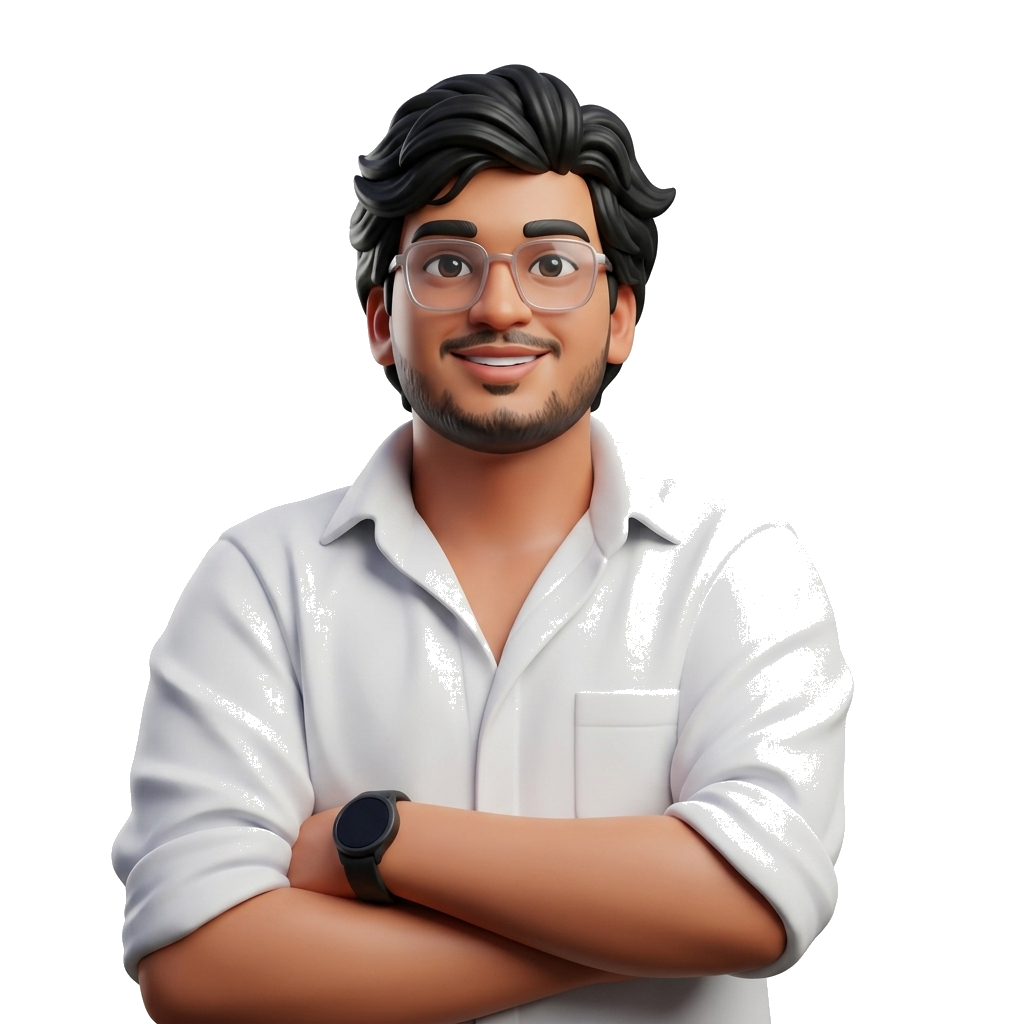
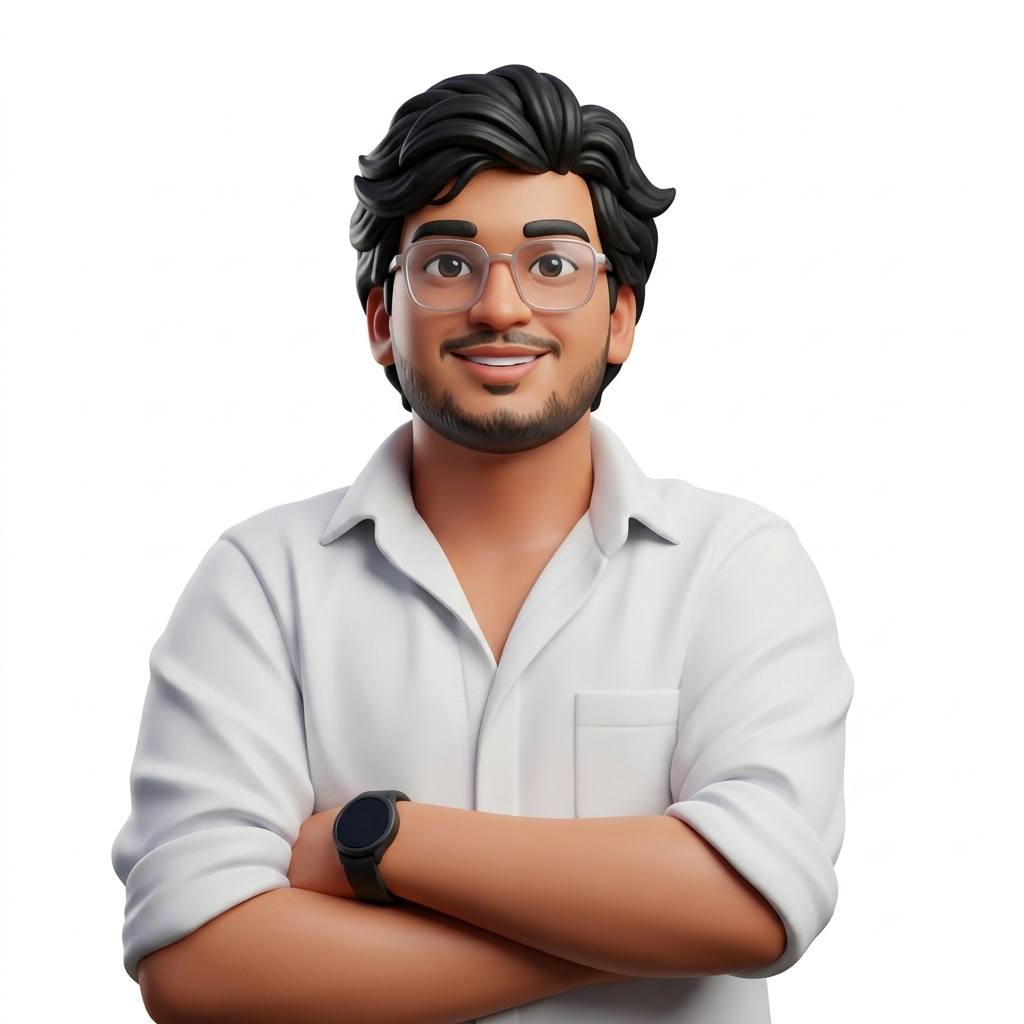
fix: restore original bhaumik.png with white background and remove blend mode hack

diff --git a/src/components/HeroSection.jsx b/src/components/HeroSection.jsx
@@ -193,7 +193,7 @@ const HeroSection = () => {
                 width: 'auto',
                 objectFit: 'cover',
                 objectPosition: 'top center',
-                filter: 'brightness(1.02) contrast(1.05)',
+                filter: 'brightness(1.08) contrast(1.05)',
               }}
             />
           </motion.div>